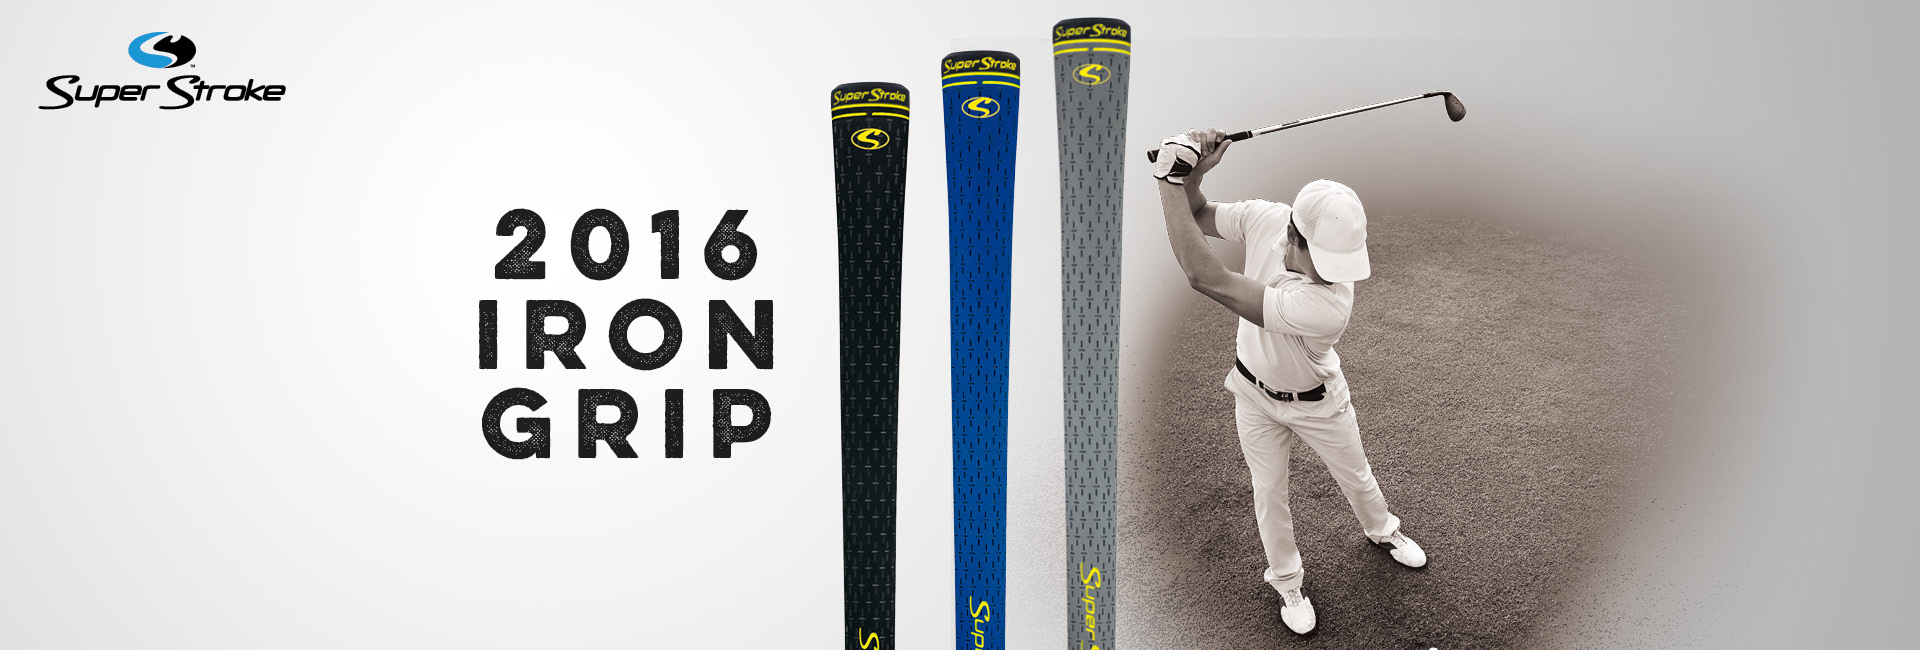
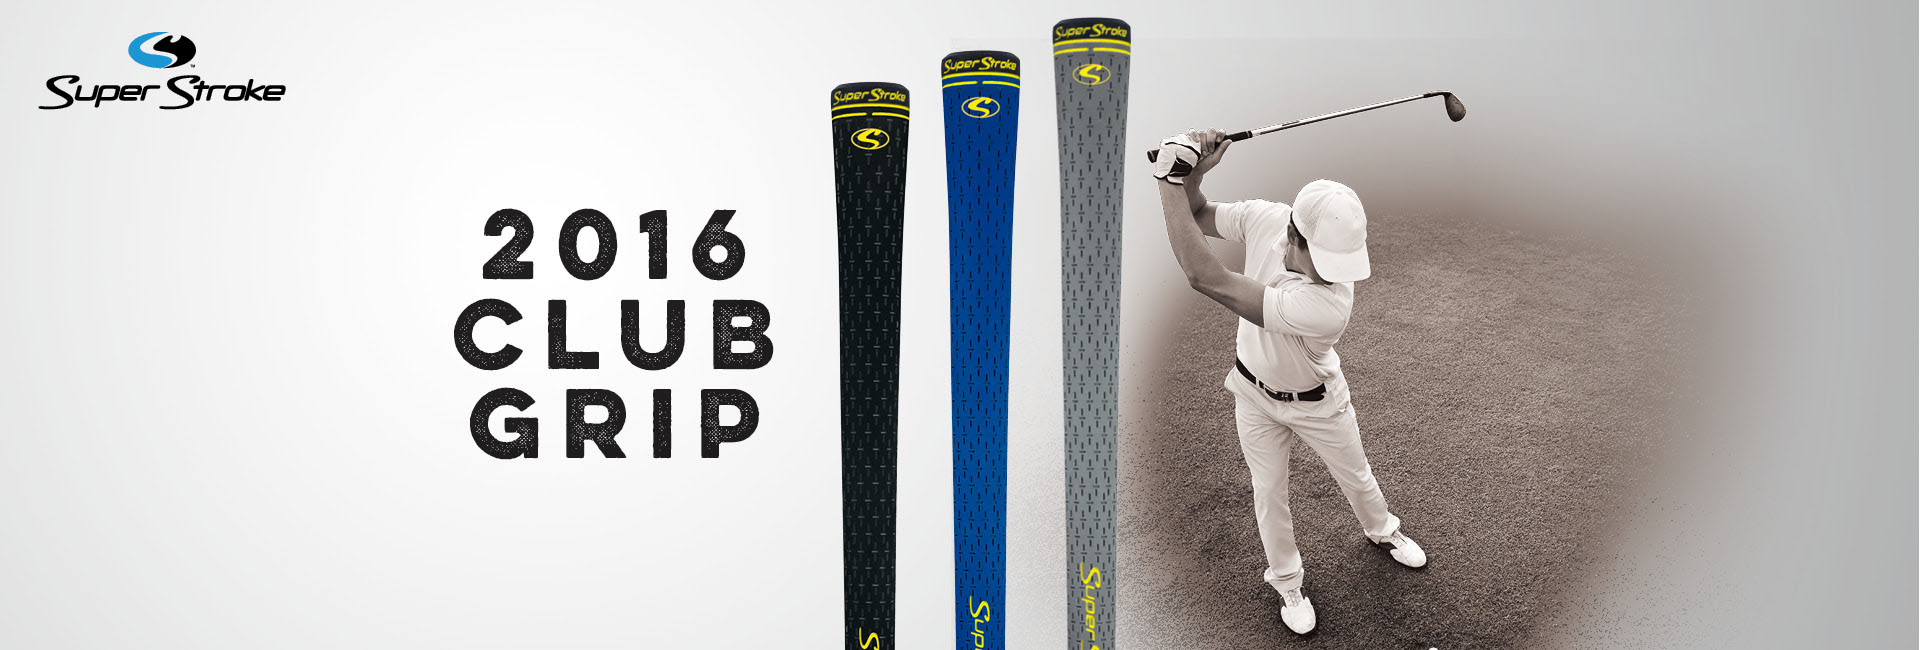
브랜드 관리 수정 및 모바일 메뉴 수정

Changed region(s): [[0.2188, 0.4615, 0.4062, 0.7077], [0.25, 0.3077, 0.4062, 0.4308]]

diff --git a/admin/member/p_top_member_list.php b/admin/member/p_top_member_list.php
@@ -15,40 +15,55 @@
         <section id="main-content">
           <section class="wrapper">
 
+            <!-- info start-->
+            <div class="row">
+              <div class="col-sm-12">
+                <section class="panel">
+                  <header class="panel-heading">
+                    사용방법
+                  </header>
+                  <ul class="info-body">
+                    <li><i class="fa fa-info-circle"></i> 회원 삭제 시 복구가 안되므로 주의하시기 바랍니다.</li>
+                    <li><i class="fa fa-info-circle"></i> 사용에 제한을 두고 구매기록 등을 보존하려면 미승인으로 처리하시기 바랍니다.</li>
+                  </ul>
+                </section>
+              </div>
+            </div>
+            <!-- info end -->
 <?php
 
-    $mode = set_var($_GET['mode']);
+$mode = set_var($_GET['mode']);
 
-    $search_keyword = '';
-    $id             = '';
-    $name           = '';
-    $phone          = '';
+$search_keyword = '';
+$id             = '';
+$name           = '';
+$phone          = '';
 
-    if ("search" == $mode) {
+if ("search" == $mode) {
 
-        if ($id) {
-            $search_keyword .= " AND id LIKE '%$id%' ";
-        }
-
-        if ($name) {
-            $search_keyword .= " AND name LIKE '%$name%' ";
-        }
-
-        if ($phone) {
-            $search_keyword .= " AND o_phone LIKE '%$phone%' OR hphone LIKE '%$phone%' ";
-        }
-
-    } else if ($mode == "nonapproved") {
-        $search_keyword .= " AND approved='N' ";
-    } else if ($mode == "today") {
-        $today = date("Y-m-d");
-        $search_keyword .= " AND reg_date='$today' ";
+    if ($id) {
+        $search_keyword .= " AND id LIKE '%$id%' ";
     }
 
-    //회원 테이블의 리스트를 불러옵니다.
-    $query  = "SELECT * FROM p_member WHERE 1 $search_keyword ORDER BY name";
-    $result = mysqli_query($connect, $query);
-    $total  = mysqli_num_rows($result);
+    if ($name) {
+        $search_keyword .= " AND name LIKE '%$name%' ";
+    }
+
+    if ($phone) {
+        $search_keyword .= " AND o_phone LIKE '%$phone%' OR hphone LIKE '%$phone%' ";
+    }
+
+} else if ($mode == "nonapproved") {
+    $search_keyword .= " AND approved='N' ";
+} else if ($mode == "today") {
+    $today = date("Y-m-d");
+    $search_keyword .= " AND reg_date='$today' ";
+}
+
+//회원 테이블의 리스트를 불러옵니다.
+$query  = "SELECT * FROM p_member WHERE 1 $search_keyword ORDER BY name";
+$result = mysqli_query($connect, $query);
+$total  = mysqli_num_rows($result);
 
 ?>
 
@@ -122,7 +137,7 @@
               <div class="col-sm-12">
                 <section class="panel">
                   <header class="panel-heading table-head">
-                      가입회원 리스트 (<?php echo number_format($total); ?> 개 ) <a href="pmember2excel.php"><i class="fa fa-file-excel-o"></i> 엑셀로 저장하기</a>
+                      개인회원 리스트 (<?php echo number_format($total); ?> 개 ) <a href="pmember2excel.php"><i class="fa fa-file-excel-o"></i> 엑셀로 저장하기</a>
                   </header>
                   <div class="panel-body">
                   <div class="table-responsive">
@@ -143,43 +158,43 @@
                     <tbody>
 <?php
 
-    $page  = set_var($_GET['page']);
-    $scale = 20;
-    $page  = (isset($_GET['page']) ? $_GET['page'] : '');
+$page  = set_var($_GET['page']);
+$scale = 20;
+$page  = (isset($_GET['page']) ? $_GET['page'] : '');
 
-    if ('' == $page) {
-        $page = 1;
-    }
+if ('' == $page) {
+    $page = 1;
+}
 
-    $cpage     = intval($page);
-    $totalpage = intval($total / $scale);
+$cpage     = intval($page);
+$totalpage = intval($total / $scale);
 
-    if ($totalpage * $scale != $total) {
-        $totalpage = $totalpage + 1;
-    }
+if ($totalpage * $scale != $total) {
+    $totalpage = $totalpage + 1;
+}
 
-    if (1 == $cpage) {
-        $cline = 0;
-    } else {
-        $cline = ($cpage * $scale) - $scale;
-    }
+if (1 == $cpage) {
+    $cline = 0;
+} else {
+    $cline = ($cpage * $scale) - $scale;
+}
 
-    $limit = $cline + $scale;
+$limit = $cline + $scale;
 
-    if ($limit >= $total) {
-        $limit = $total;
-    }
+if ($limit >= $total) {
+    $limit = $total;
+}
 
-    $scale1 = $limit - $cline;
+$scale1 = $limit - $cline;
 
-    $sql_2    = "SELECT * FROM p_member WHERE 1 $search_keyword ORDER BY reg_date DESC LIMIT $cline,$scale1 ";
-    $result_2 = mysqli_query($connect, $sql_2);
-    $total_2  = mysqli_num_rows($result_2);
+$sql_2    = "SELECT * FROM p_member WHERE 1 $search_keyword ORDER BY reg_date DESC LIMIT $cline,$scale1 ";
+$result_2 = mysqli_query($connect, $sql_2);
+$total_2  = mysqli_num_rows($result_2);
 
-    if ($total_2) {
-        for ($i = 1; $list = mysqli_fetch_array($result_2); $i++) {
+if ($total_2) {
+    for ($i = 1; $list = mysqli_fetch_array($result_2); $i++) {
 
-            $bunho = $total - ($i + $cline) + 1;
+        $bunho = $total - ($i + $cline) + 1;
         ?>
                       <tr>
                         <td><?php echo $bunho; ?></td>
@@ -189,18 +204,18 @@
                         <td>
 <?php
 
-            echo stripslashes($list['name']);
+        echo stripslashes($list['name']);
         ?>
                         </td>
                         <td><?php echo $list['dc_rate']; ?> % DC
 <?php
 
-            switch ($list['tax']) {
-                case "E":echo " (VAT 별도)";
-                    break;
-                case "I":echo " (VAT 포함)";
-                    break;
-            }
+        switch ($list['tax']) {
+            case "E":echo " (VAT 별도)";
+                break;
+            case "I":echo " (VAT 포함)";
+                break;
+        }
         ?>
                         </td>
                         <td><?php echo $list['o_phone']; ?></td>
@@ -209,31 +224,31 @@
                         <td>
 <?php
 
-            if ($list['approved'] == "Y") {
-                echo '<i class="fa fa-check"></i> OK';
-            } else {
-                echo '<i class="fa fa-pause"></i> PAUSE';
-            }
+        if ($list['approved'] == "Y") {
+            echo '<i class="fa fa-check"></i> OK';
+        } else {
+            echo '<i class="fa fa-pause"></i> PAUSE';
+        }
 
         ?>
                         </td>
                         <td>
-                          <a type="button" class="btn btn-xs btn-danger" href="mem_delete_member.php?m_num=<?php echo $list['seq_num']; ?>&amp;page=<?php echo $page; ?>" onclick="return confirm('이 회원의 모든 정보가 즉시 삭제되며 복구할 수 없습니다. \n삭제하시겠습니까?')"><i class="fa fa-trash-o"></i></a>
+                          <a type="button" class="btn btn-xs btn-danger" href="p_mem_delete_member.php?m_num=<?php echo $list['seq_num']; ?>&amp;page=<?php echo $page; ?>" onclick="return confirm('이 회원의 모든 정보가 즉시 삭제되며 복구할 수 없습니다. \n삭제하시겠습니까?')"><i class="fa fa-trash-o"></i></a>
                         </td>
                       </tr>
 <?php
 
-        } // end of for loop
+    } // end of for loop
 
-        mysqli_free_result($result_2);
-    } else {
+    mysqli_free_result($result_2);
+} else {
     ?>
                       <tr>
                         <td colspan="9"><p>등록된 회원이 없습니다.</p></td>
                       </tr>
 <?php
 
-    }
+}
 ?>
                       </tbody>
                     </table>
@@ -255,8 +270,8 @@
                           <td>
 <?php
 
-    $url = $_SERVER['PHP_SELF'] . '?mode=' . $mode;
-    page_nav($totalpage, $cpage, $url);
+$url = $_SERVER['PHP_SELF'] . '?mode=' . $mode;
+page_nav($totalpage, $cpage, $url);
 ?>
                           </td>
                         </tr>

diff --git a/admin/member/p_mem_delete_member.php b/admin/member/p_mem_delete_member.php
@@ -1,0 +1,32 @@
+<?php
+
+include_once "../include/admin_auth.php";
+include_once "../../util/util.php";
+
+$m_num = set_var($_GET['m_num']);
+$from  = set_var($_GET['from']);
+$page  = set_var($_GET['page']);
+
+$query  = "SELECT * FROM p_member WHERE seq_num='$m_num' ";
+$result = mysqli_query($connect, $query);
+$rows   = mysqli_fetch_array($result);
+
+//마일리지 정보 삭제
+$query1  = "SELECT * FROM mileage WHERE id_fk='$rows[id]' ";
+$result1 = mysqli_query($connect, $query1);
+$rows1   = mysqli_fetch_array($result1);
+
+//회원정보 삭제
+$query2 = "DELETE FROM p_member WHERE seq_num='$m_num' ";
+mysqli_query($connect, $query2);
+
+msg('업체정보를 삭제했습니다.');
+
+if ($from == "mail") {
+    echo "<meta http-equiv='content-type' content='text/html; charset=UTF-8' />
+    <script>
+      window.close()
+    </script>";
+} else {
+    header("Location: p_top_member_list.php?page=" . $page . "");
+}

diff --git a/include/header.php b/include/header.php
@@ -106,7 +106,7 @@ $uri = set_var($_SERVER['HTTP_REFERER']);
                 <div class="container">
                     <div class="row">
                         <div class="col-lg-3 col-md-4 col-sm-5">
-                            <div class="left-category-menu  hidden-xs">
+                            <div class="left-category-menu">
                                 <div class="left-product-cat">
                                     <div class="category-heading">
                                         <h2>브랜드</h2>
@@ -139,12 +139,10 @@ $uri = set_var($_SERVER['HTTP_REFERER']);
                             <div class="mobile-menu">
                                 <nav id="dropdown">
                                     <ul>
-                                        <li class="active1"><a href="/">Home</a>
-                                        </li>
+                                        <li class="active1"><a href="/">Home</a></li>
                                         <li><a href="/member/about-us.php">회사 소개</a></li>
-                                        <li><a href="/bbs/list.php?code=fitting">피팅 가이드</a></li>
-                                        <li><a href="#">대리점 안내</a></li>
-                                        <li><a href="/member/contact-us.php">제휴문의</a></li>
+                                        <li><a href="/bbs/list.php?code=fitting">새소식</a></li>
+                                        <li><a href="/member/contact-us.php">문의</a></li>
                                     </ul>
                                 </nav>
                             </div>

diff --git a/util/util.php b/util/util.php
@@ -1,7 +1,7 @@
 <?php
 
-$config = parse_ini_file('/home/hosting_users/ssss01047271791/config/config.ini');
-// $config = parse_ini_file('config.ini');
+// $config = parse_ini_file('/home/hosting_users/ssss01047271791/config/config.ini');
+$config = parse_ini_file('config.ini');
 
 $host         = $config['host'];
 $dbid         = $config['dbid'];
@@ -2179,7 +2179,7 @@ function restore_category($mode, $lcode, $mcode)
                                                                 <option value="">선택하세요</option>
 HEREDOC;
 
-    $ca1_qry    = "SELECT * FROM products_category1 ORDER BY code";
+    $ca1_qry    = "SELECT * FROM products_category1 WHERE del='N' ORDER BY code";
     $ca1_result = mysqli_query($connect, $ca1_qry);
 
     // $lcode = set_var($_POST['lcode']);
@@ -2211,7 +2211,7 @@ HEREDOC;
                                                                 <option value="">선택하세요</option>
 HEREDOC;
 
-    $ca2_qry    = "SELECT * FROM products_category2 WHERE up_category='$lcode' ORDER BY code";
+    $ca2_qry    = "SELECT * FROM products_category2 WHERE up_category='$lcode' AND WHERE del='N' ORDER BY code";
     $ca2_result = mysqli_query($connect, $ca2_qry);
 
     for ($i = 0; $ca2_row = mysqli_fetch_array($ca2_result); $i++) {

diff --git a/admin/order/top_order_list.php b/admin/order/top_order_list.php
@@ -25,7 +25,7 @@ $reUrl = urlencode($_SERVER['PHP_SELF'] . "?" . $_SERVER['QUERY_STRING']);
 
 				<!-- info start-->
 				<div class="row">
-		        	<div class="col-sm-12">
+		      <div class="col-sm-12">
 						<section class="panel">
 							<header class="panel-heading">
 							  사용방법
@@ -34,7 +34,7 @@ $reUrl = urlencode($_SERVER['PHP_SELF'] . "?" . $_SERVER['QUERY_STRING']);
 							  <li><i class="fa fa-info-circle"></i> 신규주문 확인을 위해 5분마다 화면이 리프레시됩니다.</li>
                 <li><i class="fa fa-info-circle"></i> 업체별 기간검색하기 : 1. 하단 검색조건에서 "업체명"으로 업체 검색 -> 2. 검색결과에서 해당 업체명 클릭 -> 3. 날짜검색에서 기간 설정 후 검색</li>
 							</ul>
-		                </section>
+		        </section>
 
 <?php
 

diff --git a/admin/products/top_pro_list.php b/admin/products/top_pro_list.php
@@ -61,7 +61,7 @@ $key     = set_var($_GET['key']);
 $keyword = set_var($_GET['keyword']);
 $page    = set_var($_GET['page']);
 
-$query   = "SELECT * FROM products_category1 ORDER BY num ";
+$query   = "SELECT * FROM products_category1 WHERE del='N' ORDER BY num ";
 $result2 = mysqli_query($connect, $query);
 // 현재위치 표시
 for ($i = 1; $row2 = mysqli_fetch_array($result2); $i++) {
@@ -83,7 +83,7 @@ mysqli_free_result($result2);
 <?php
 
 if ($lcode) {
-    $query  = "SELECT * FROM products_category2 WHERE up_category='$lcode' ORDER BY code";
+    $query  = "SELECT * FROM products_category2 WHERE up_category='$lcode' AND del='N' ORDER BY code";
     $result = mysqli_query($connect, $query);
 
     for ($i = 0; $row = mysqli_fetch_array($result); $i++) {

diff --git a/admin/main/main.php b/admin/main/main.php
@@ -109,7 +109,7 @@ mysqli_query($connect, 'set names utf8');
                 </div>
                 <div class="value">
                   <h1>
-                  <a href="../member/top_member_list.php?mode=nonapproved"><?php echo $newPersonalMember; ?></a>
+                  <a href="../member/p_top_member_list.php?mode=nonapproved"><?php echo $newPersonalMember; ?></a>
                   </h1>
                   <p>신규 개인회원</p>
                 </div>

diff --git a/util/shop-functions.php b/util/shop-functions.php
@@ -383,7 +383,7 @@ function show_brands()
     global $connect;
 
     // 쇼핑몰 대분류
-    $l_qry = "SELECT * FROM products_category1 WHERE hide='N' ORDER BY num ";
+    $l_qry = "SELECT * FROM products_category1 WHERE hide='N' AND del='N' ORDER BY num ";
     $l_res = mysqli_query($connect, $l_qry);
     $total = mysqli_num_rows($l_res);
 